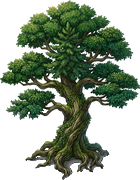
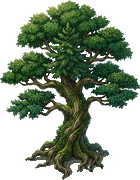
fix(art): clean tree background artifacts and update agent guidelines
- clear 358 trapped white background pixels from branch and canopy gaps of tree_ancient.png
- soften and tint root flare fringe pixels on tree_ancient.png to match natural mossy bark
- remove stray bright pixels from tree_pine.png
- update AGENTS.md and docs/decisions.md (T-018) with flexible ~200 LOC script guideline
- update AGENTS.md to skip CodeRabbit review on docs, changelog, or binary asset changes
- update docs/CHANGELOG.md with Phase 5.3 tree cleanup and documentation updates

diff --git a/docs/decisions.md b/docs/decisions.md
@@ -54,3 +54,4 @@ These are established working decisions, not a claim that all systems are implem
 - **T-015 Interaction and discovery signal architecture:** Environmental interactables utilize `Area2D` on collision layer 4 with dedicated trigger shapes. Player detects proximity via `InteractionDetector` (`Area2D`, mask 4) and emits decoupled signals (`interactable_focus_changed`, `resource_collected`, `clue_discovered`) to decouple gameplay/input from HUD presentation (`ExplorationUI`). Discovery states are session-tracked on landmark entities without premature persistent save frameworks.
 - **T-016 Additive interior subscene transition and dialogue state management:** Transitions between forest and interior environments use an additive subscene model in `ForestWorld` without tree reloads or global singletons. Entering the cabin disables forest processing/visibility, reparents the player into the interior sortable hierarchy, updates camera limits, and performs a screen fade; exiting restores the forest and positions the player outside the doorway, preserving 100% of in-memory gathering and discovery state. Dialogue operates through `DialogueUI` on layer 10, temporarily locking player physics processing (`is_movement_locked = true`) and offering branching choices without interrupting exploration systems.
 - **T-017 Visual overhaul and asset pipeline convention:** Core environment entities (Pine Trees, Ancient Trees, Mossy Rocks, Cabin Exterior) and interactables/characters (Ancient Runestone, Moonleaf Herb, Elderly Stranger, Player) utilize handcrafted transparent PNG sprites anchored at foot contact `(0, 0)` with visual sprites offset vertically by `-height / 2`. Foliage and roof volumes remain strictly uncollided to allow natural character pass-behind sorting, while collision footprints remain compact at base contact. The terrain uses deterministic pseudo-random hash variations across grass tones and soft path transitions without relying on harsh geometric wireframes, adhering strictly to the dual-atmosphere palette defined in `docs/art-direction.md`.
+- **T-018 Script size guideline:** GDScript files should remain focused and modular, targeting a flexible guideline of ~200 lines of code (LOC). This limit is not rigid; scripts may exceed it when cohesive domain logic or state management would be worsened by premature splitting. Skip automated code review tools (like CodeRabbit) for commits consisting solely of documentation, changelogs, or binary assets.

diff --git a/AGENTS.md b/AGENTS.md
@@ -12,7 +12,7 @@
 - Implement only the current task. Do not build systems merely because they are in the long-term vision.
 - Use APIs supported by the actual Godot version. Do not invent methods, signals, nodes, or settings.
 - Prefer clear typed GDScript where helpful and small focused scenes/scripts.
-- Avoid premature frameworks and giant manager scripts.
+- Avoid premature frameworks and giant manager scripts. Target concise, focused scripts with a flexible guideline of ~200 LOC; allow reasonable flexibility where splitting would harm cohesion.
 - For typical player movement, consider `CharacterBody2D`; validate the approach against the desired coordinate model.
 - Keep gameplay logic, presentation, world simulation, persistence, and networking separable as needs emerge.
 - Do not add plugins, dependencies, downloaded assets, or unrelated project-setting changes without need and approval.
@@ -37,7 +37,7 @@
 After every task:
 1. Run relevant Godot validation/tests when possible.
 2. If validation cannot run, say so and give manual steps.
-3. Run `coderabbit review --agent --uncommitted` and resolve all actionable items until no new findings remain.
+3. Run `coderabbit review --agent --uncommitted` only after substantive code or feature work is completed. Skip CodeRabbit review when changes are strictly limited to documentation (`docs/`), changelogs (`CHANGELOG.md`), or binary/image assets (`.png`). Resolve all actionable items until no new findings remain.
 4. List exact files created/modified.
 5. Report tests/commands and truthful results.
 6. State known limitations and next smallest step.

diff --git a/docs/CHANGELOG.md b/docs/CHANGELOG.md
@@ -17,7 +17,11 @@
 - Herb Count & Exploration Mechanics Verification:
   - Confirmed 4 distinct, reachable Moonleaf Herbs across the map: `HerbEntry` $(420, 540)$, `HerbRoute` $(650, 440)$, `HerbAlcove` $(790, 640)$, and `HerbGrove` $(1360, 580)$.
   - Verified ExplorationUI badge updates accurately from `0 / 4` to `4 / 4` as herbs are gathered.
-- Updated `docs/asset-licenses.md`, `docs/phases.md`, and `README.md`.
+- Cleaned White Background Cutout Artifacts from Tree Sprites:
+  - Removed 358 white and light-grey background pixels trapped in internal branch gaps and canopy pockets of `tree_ancient.png`, eliminating glaring white background patches behind tree branches.
+  - Softened and blended root fringe pixels on `tree_ancient.png` to rich mossy bark.
+  - Cleaned stray bright pixels from `tree_pine.png` and verified clean alpha transparency in live graphical captures.
+- Updated `AGENTS.md`, `docs/decisions.md` (T-018: flexible ~200 LOC script guideline, conditional CodeRabbit execution), `docs/asset-licenses.md`, `docs/phases.md`, and `README.md`.
 - Validated via automated test suite (`tests/test_phase5_3_full.gd`) with 0 errors across 9 textures, 14 scene instantiations, 4/4 herb collections, runestone discovery, and cabin transitions.
 
 ## Phase 5.2 — Terrain Rework & Environment Composition (2026-10-19)
